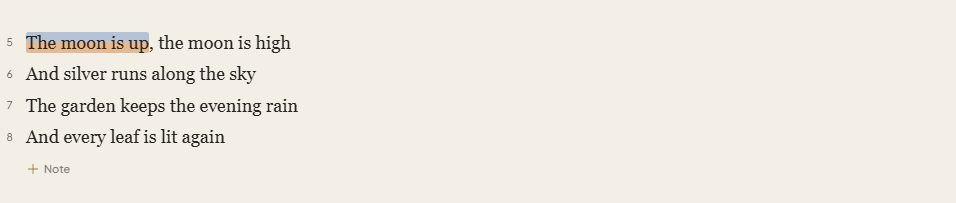
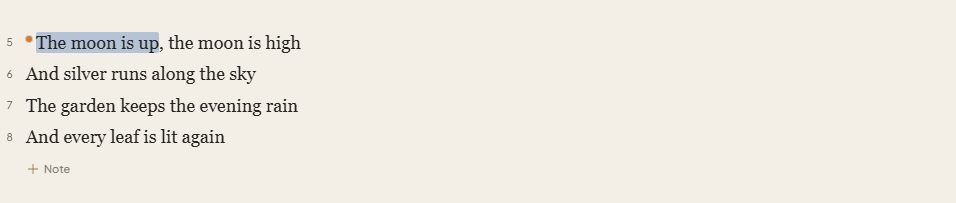
Phase 3: end-to-end checks for turns and views; guide shows two themes
e2e-views.cjs: a turn is over within ~800 ms (also with the CPU slowed
4x), a page opens from the six-page grid, Fit page fits, and a book
saved at 300% opens inside a 1366x768 window. Run by npm run test:e2e.
The guide's "One passage, several themes" card and picture show the new
behaviour.

Changed region(s): [[0.0, 0.1478, 0.3337, 0.266]]

diff --git a/src/data/guide.ts b/src/data/guide.ts
@@ -37,7 +37,7 @@ export const GUIDE_GROUPS: GuideGroup[] = [
     title: 'Marking',
     features: [
       { id: 'popover', title: 'Select words to mark them', caption: 'Select a passage and a menu appears: pick a theme, then highlight, underline, strike out, react, or write a sticky note.' },
-      { id: 'overlap', title: 'One passage, several themes', caption: 'Highlight the same words again under another theme. Words under two themes show both colours.' },
+      { id: 'overlap', title: 'One passage, several themes', caption: 'Turn on more than one theme in the selection menu, or mark the same words again under another theme: the mark is filed under each, with a small dot for every extra theme.' },
       { id: 'pdftools', title: 'Drawing on a PDF', caption: 'Pen, shapes, arrows, brackets, text boxes, area highlights and Mask, which drags a solid box over anything to black it out.' }
     ]
   },

diff --git a/CLAUDE.md b/CLAUDE.md
@@ -1,7 +1,7 @@
 # Marginalia: project notes
 
 - Electron + React 19 + Vite + Tailwind 4 + `motion`. Launch with `npm run desktop`, never `npm run dev`.
-- Checks: `npm run build`, then `npm test` (`tsc --noEmit`, which trips on a stale `dist/` if run before the build, then `tsx --test` on every `*.test.ts` in the repo root, `src/` and `electron/`). CI runs the same before building installers. `npm run test:e2e` (builds, then drives the real app on a throwaway library) checks selection and mark creation.
+- Checks: `npm run build`, then `npm test` (`tsc --noEmit`, which trips on a stale `dist/` if run before the build, then `tsx --test` on every `*.test.ts` in the repo root, `src/` and `electron/`). CI runs the same before building installers. `npm run test:e2e` (builds, then drives the real app on a throwaway library) checks selection and mark creation (e2e-marking.cjs) and page turns and views (e2e-views.cjs).
 - No AI (Gemini) calls unless the user presses a button. Nothing that looks like work on startup, except the update check.
 - The embedded server binds a random port each launch, so localStorage resets every launch. Flags that must survive a restart go in the main-process `config.json` via `updateConfig()` (atomic write).
 - Home library = bookshelf (`src/components/Bookshelf.tsx`, `.shelf-*` in `src/index.css`), modelled on interesting-reads.vercel.app. The shelf background follows the app theme (paper in light, night in dark). The desk area opens smoothly. Spine colours come from a fixed palette. Titles must fit their spine. The desk box is a fixed size. Motion is eased, with no spring or bounce.

diff --git a/README.md b/README.md
@@ -47,7 +47,9 @@ npm test
 
 `npm run test:e2e` builds the app and checks selecting text and making marks in the real app
 (Electron, on a throwaway library): PDF quotes hold only the page's words, one passage can carry
-several themes, and the reader's marks get their words and theme.
+several themes (shown with a dot per extra theme), and the reader's marks get their words and theme.
+It also checks the PDF views: a page turn is over within about 800 ms (also with the CPU slowed
+4×), a page opens from the six-page grid, Fit page fits, and a book opens inside a small window.
 
 The guide on My Collections uses real screenshots of the app. After changing anything it shows,
 retake them with `npm run guide:capture` (it uses a throwaway library, never yours).
